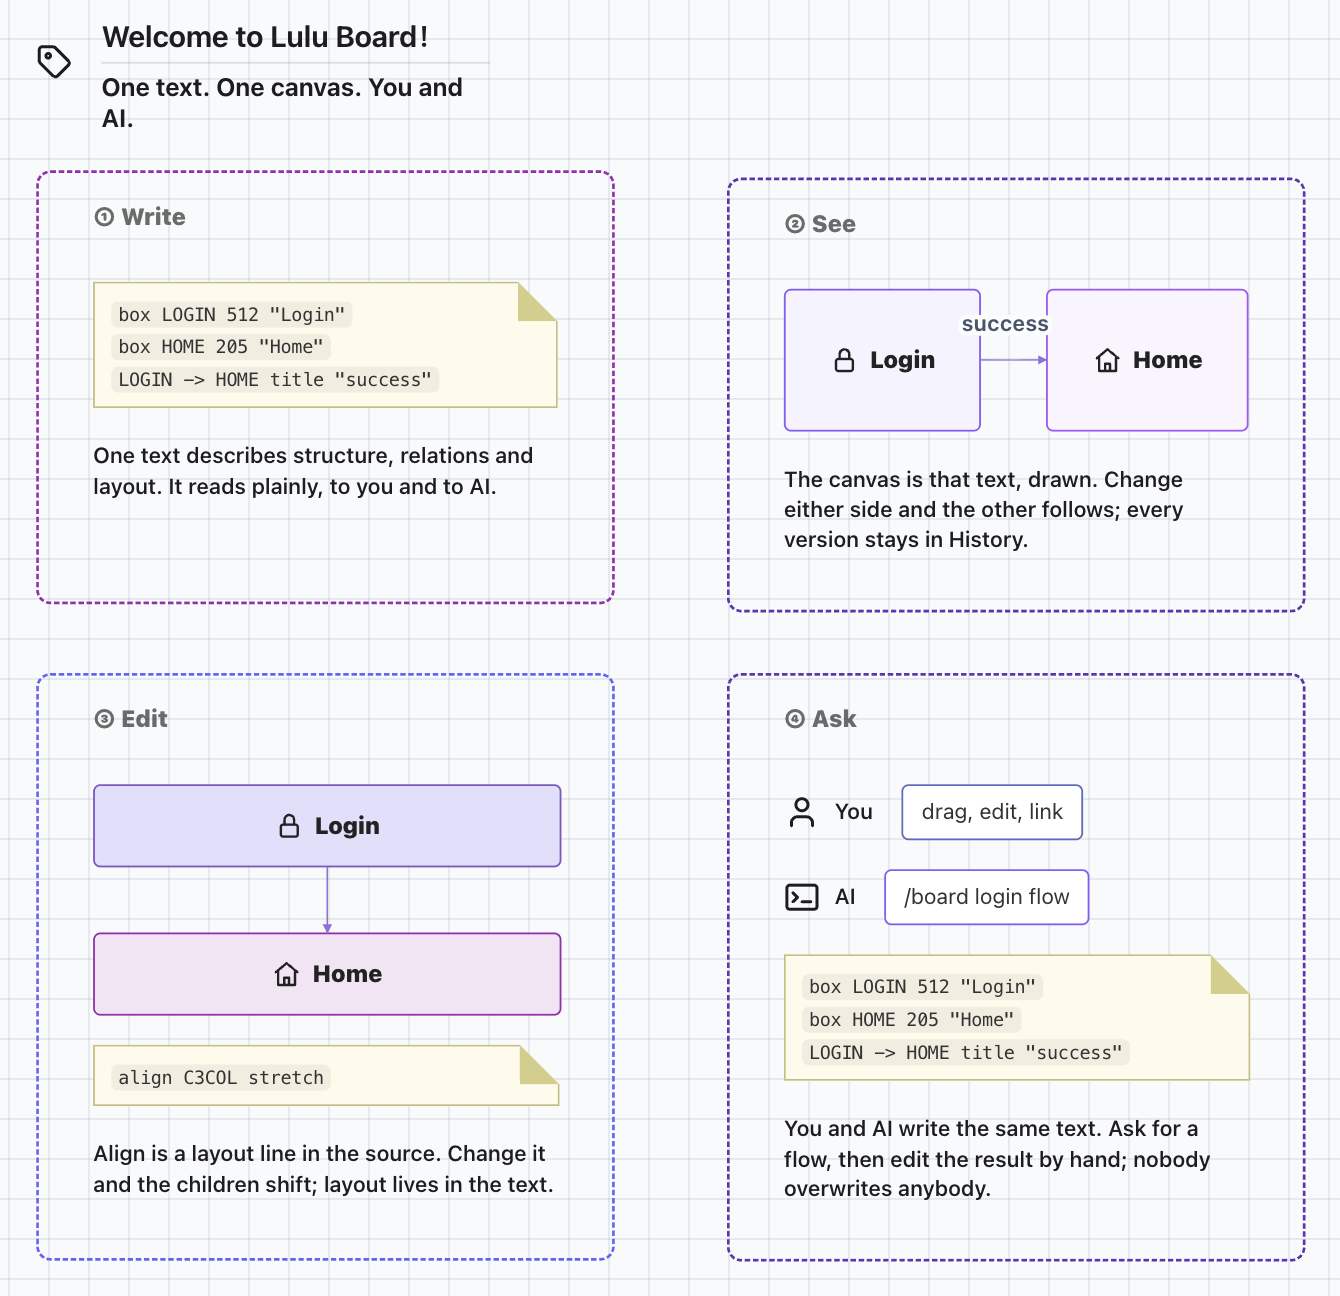
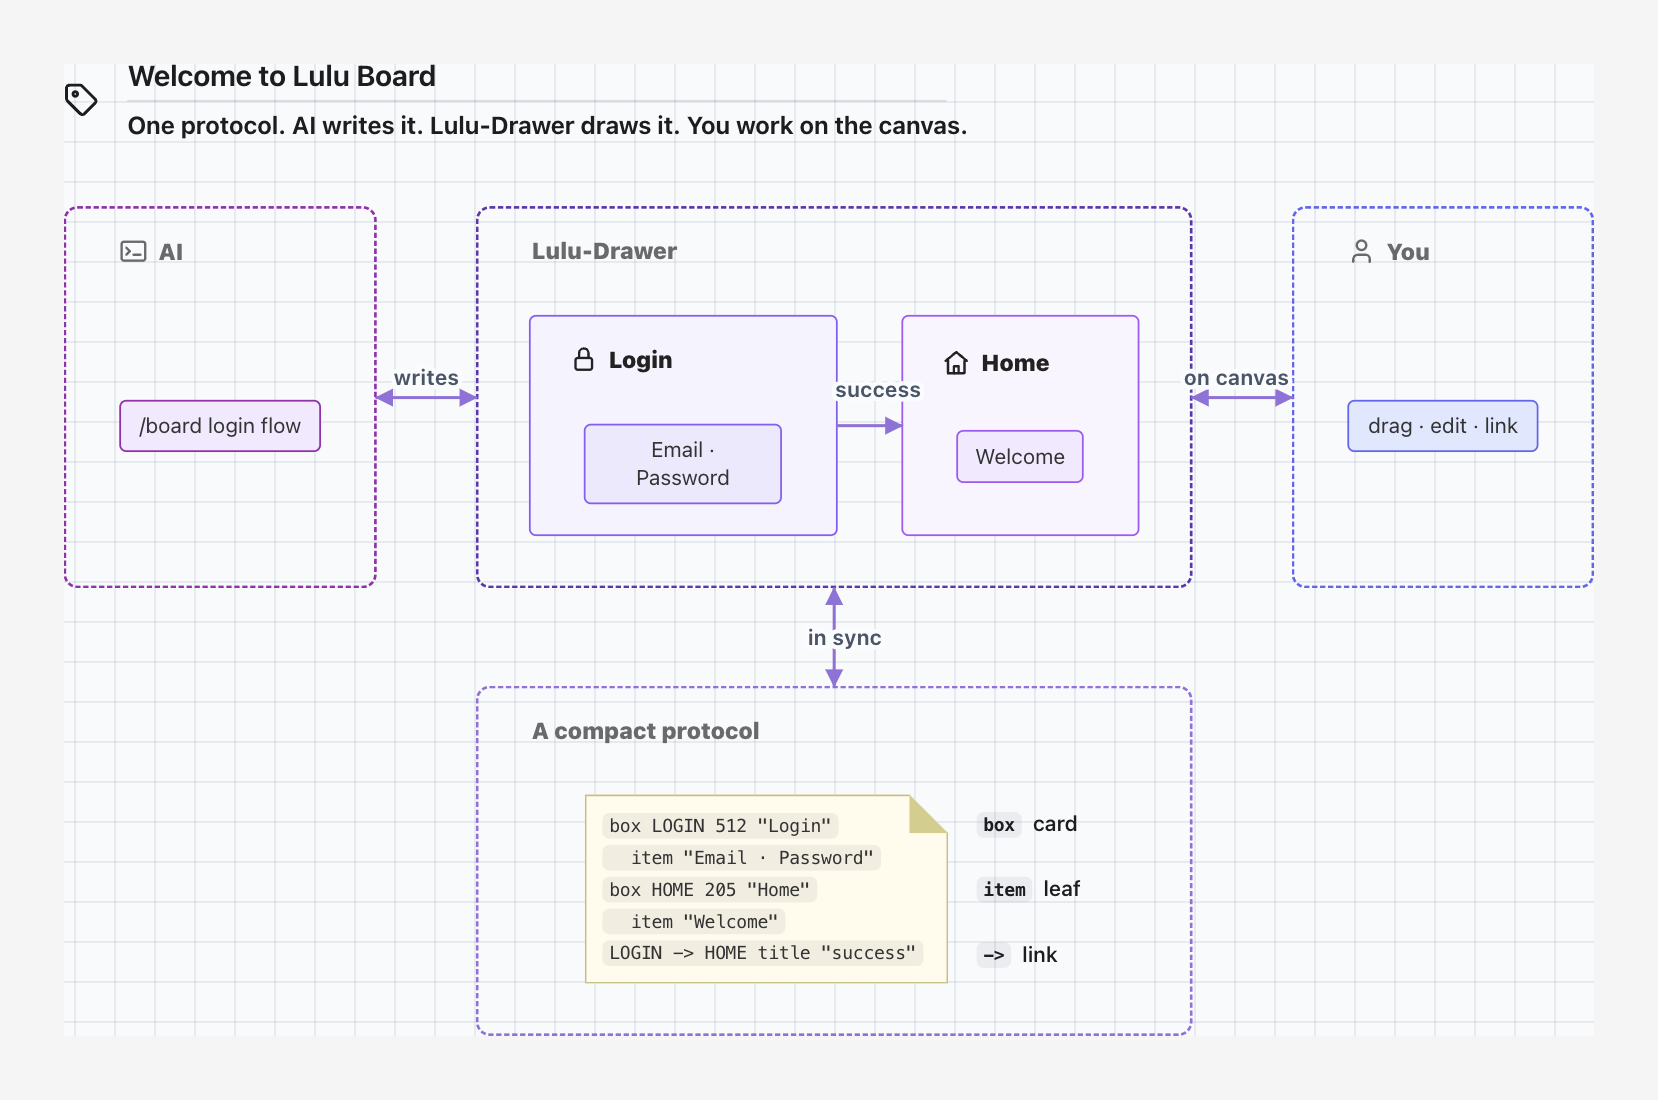
docs: retell onboarding as one protocol and three roles

diff --git a/tests/board/engine/onboarding-template.test.js b/tests/board/engine/onboarding-template.test.js
@@ -12,46 +12,48 @@ function sourceBody(text) {
   const lines = String(text).split(/\n/);
   let i = 0;
   while (i < lines.length && !lines[i].trim()) i += 1;
-  if (!/^meta\s+\{/.test(lines[i] || "")) throw new Error("expected meta envelope");
+  if (!/^meta\s+/.test(lines[i] || "")) throw new Error("expected meta envelope");
   return lines.slice(i + 1).join("\n");
 }
 const src = fs.readFileSync(
   path.join(__dirname, '../../../skill/assets/templates/board/onboarding.bmd'),
   'utf8'
 );
-assert.ok(/^meta\s+\{/.test(src.trim()), 'onboarding starts with meta');
+assert.ok(/^meta\s+/.test(src.trim()), 'onboarding starts with meta');
 const board = Render.parse(sourceBody(src));
 assert.strictEqual(board.title, 'Lulu Board');
 const ids = [];
 const walk = (b) => { ids.push(b.id); (b.boxes || []).forEach(walk); };
 board.boxes.forEach(walk);
-['HERO', 'C1', 'C2', 'C3', 'C4', 'LOGIN', 'HOME'].forEach((id) => assert.ok(ids.includes(id), id));
-// Title block and the four cells are top-level so a first-time user can drag them.
+['HERO', 'AI', 'CANVAS', 'YOU', 'PROTO', 'LOGIN', 'HOME'].forEach((id) => assert.ok(ids.includes(id), id));
+// Hero, the loop row, and the protocol strip are top-level so a first-time user can drag them.
 const topIds = board.views.map((v) => v.id);
-['HERO', 'C1', 'C2', 'C3', 'C4'].forEach((id) => assert.ok(topIds.includes(id), id + ' top-level'));
+['HERO', 'AI', 'CANVAS', 'YOU', 'PROTO'].forEach((id) => assert.ok(topIds.includes(id), id + ' top-level'));
 assert.strictEqual(board.boxes.find((b) => b.id === 'HERO').type, 'layout');
+['AI', 'CANVAS', 'YOU', 'PROTO'].forEach((id) => assert.strictEqual(board.boxes.find((b) => b.id === id).type, 'container', id + ' container'));
 assert.ok(src.includes('Welcome to Lulu Board'), src);
-assert.ok(src.includes('One text. One canvas. You and AI.'), src);
-['C1', 'C2', 'C3', 'C4'].forEach((id) => assert.strictEqual(board.boxes.find((b) => b.id === id).type, 'container', id + ' container'));
+assert.ok(src.includes('One protocol. AI writes it. Lulu-Drawer draws it. You work on the canvas.'), src);
+assert.ok(src.includes('/board login flow'), src);
+assert.ok(src.includes('drag · edit · link'), src);
+assert.ok(src.includes('A compact protocol'), src);
+assert.ok(!src.includes('Same text'), src);
+// The loop is drawn as relations, not as prose.
 const out = Render.serialize(board);
+assert.ok(out.includes('AI <-> CANVAS title "writes"'), out);
+assert.ok(out.includes('CANVAS <-> YOU title "on canvas"'), out);
+assert.ok(out.includes('CANVAS <-> PROTO title "in sync"'), out);
 assert.ok(out.includes('LOGIN -> HOME title "success"'), out);
-assert.ok(out.includes('LOGIN2 -> HOME2'), out);
-assert.ok(out.includes('\\"Login\\"'), out);
-assert.ok(src.includes('`align C3COL stretch`'), src);
-assert.ok(src.includes('③ Edit'), src);
-assert.ok(out.includes('align C3COL stretch'), out);
-assert.ok(src.includes('Align is a layout line in the source.'), src);
-assert.ok(!src.includes('arrange HOME below LOGIN'), src);
-assert.ok(!src.includes('Drag a card'), src);
-assert.ok(out.includes('justify C2ROW, C2, C3COL stretch'), out);
-assert.ok(out.includes('flush C1, C2 top'), out);
-assert.ok(out.includes('flush C1, C2 bottom'), out);
-assert.ok(out.includes('flush C3, C4 top'), out);
-assert.ok(out.includes('flush C3, C4 bottom'), out);
-assert.ok(!out.includes('align C1, C2 top'), out);
-assert.ok(!out.includes('barrier'), out);
+// The source snippet appears once and matches the drawn cards.
+assert.strictEqual(src.split('`box LOGIN 512 \\"Login\\"`').length, 2, 'one source snippet');
+assert.ok(src.includes('`  item \\"Email · Password\\"`'), src);
+assert.ok(src.includes('`  item \\"Welcome\\"`'), src);
+assert.ok(src.includes('`LOGIN -> HOME title \\"success\\"`'), src);
+// No tutorial cells and no layout lesson.
+assert.ok(!src.includes('① Write'), src);
+assert.ok(!src.includes('③ Edit'), src);
+assert.ok(!src.includes('align C3COL'), src);
+assert.ok(!src.includes('every version stays in History'), src);
 assert.ok(/\btype\s+icon\b/.test(src), 'onboarding uses type icon');
 assert.ok(!/\btype\s+img\b/.test(src), 'onboarding has no type img');
 assert.ok(!/\btype\s+image\b/.test(src), 'onboarding has no type image');
-assert.ok(out.includes('type icon 515'), out);
 console.log('ok onboarding-template');

diff --git a/tests/board/engine/title-no-letter-wrap.test.js b/tests/board/engine/title-no-letter-wrap.test.js
@@ -18,7 +18,7 @@ assert.ok(
   /el\.style\.minWidth = nested \? 'min-content' : '0'/.test(boxJs),
   'nested box keeps min-content'
 );
-assert.ok(!/direction HERO, C2ROW, C3COL/.test(template), 'C3COL stays column');
-assert.ok(/direction HERO, C2ROW, C4YOU, C4AI row/.test(template), 'other rows stay row');
+assert.ok(/direction HERO, MINI, PROTOROW row/.test(template), 'hero, mini flow and protocol row stay row');
+assert.ok(!/direction HERO, C2ROW, C3COL/.test(template), 'old tutorial rows stay gone');
 
 console.log('ok title-no-letter-wrap');

diff --git a/README.md b/README.md
@@ -4,7 +4,7 @@
 
 <h1 align="center">Lulu Drawer</h1>
 
-<p align="center"><b>One text. One canvas. You and the agent.</b></p>
+<p align="center"><b>One protocol. AI writes it. Lulu-Drawer draws it. You work on the canvas.</b></p>
 
 <p align="center">
   <a href="LICENSE"><img src="https://img.shields.io/badge/license-MIT-blue.svg?style=flat-square" alt="License"></a>
@@ -77,7 +77,7 @@ Click a preview to open the source.
       </a>
       <p>
         <strong>Onboarding</strong><br />
-        Write · See · Edit · Ask
+        AI writes. Lulu-Drawer draws. You work on the canvas.
       </p>
     </td>
   </tr>
